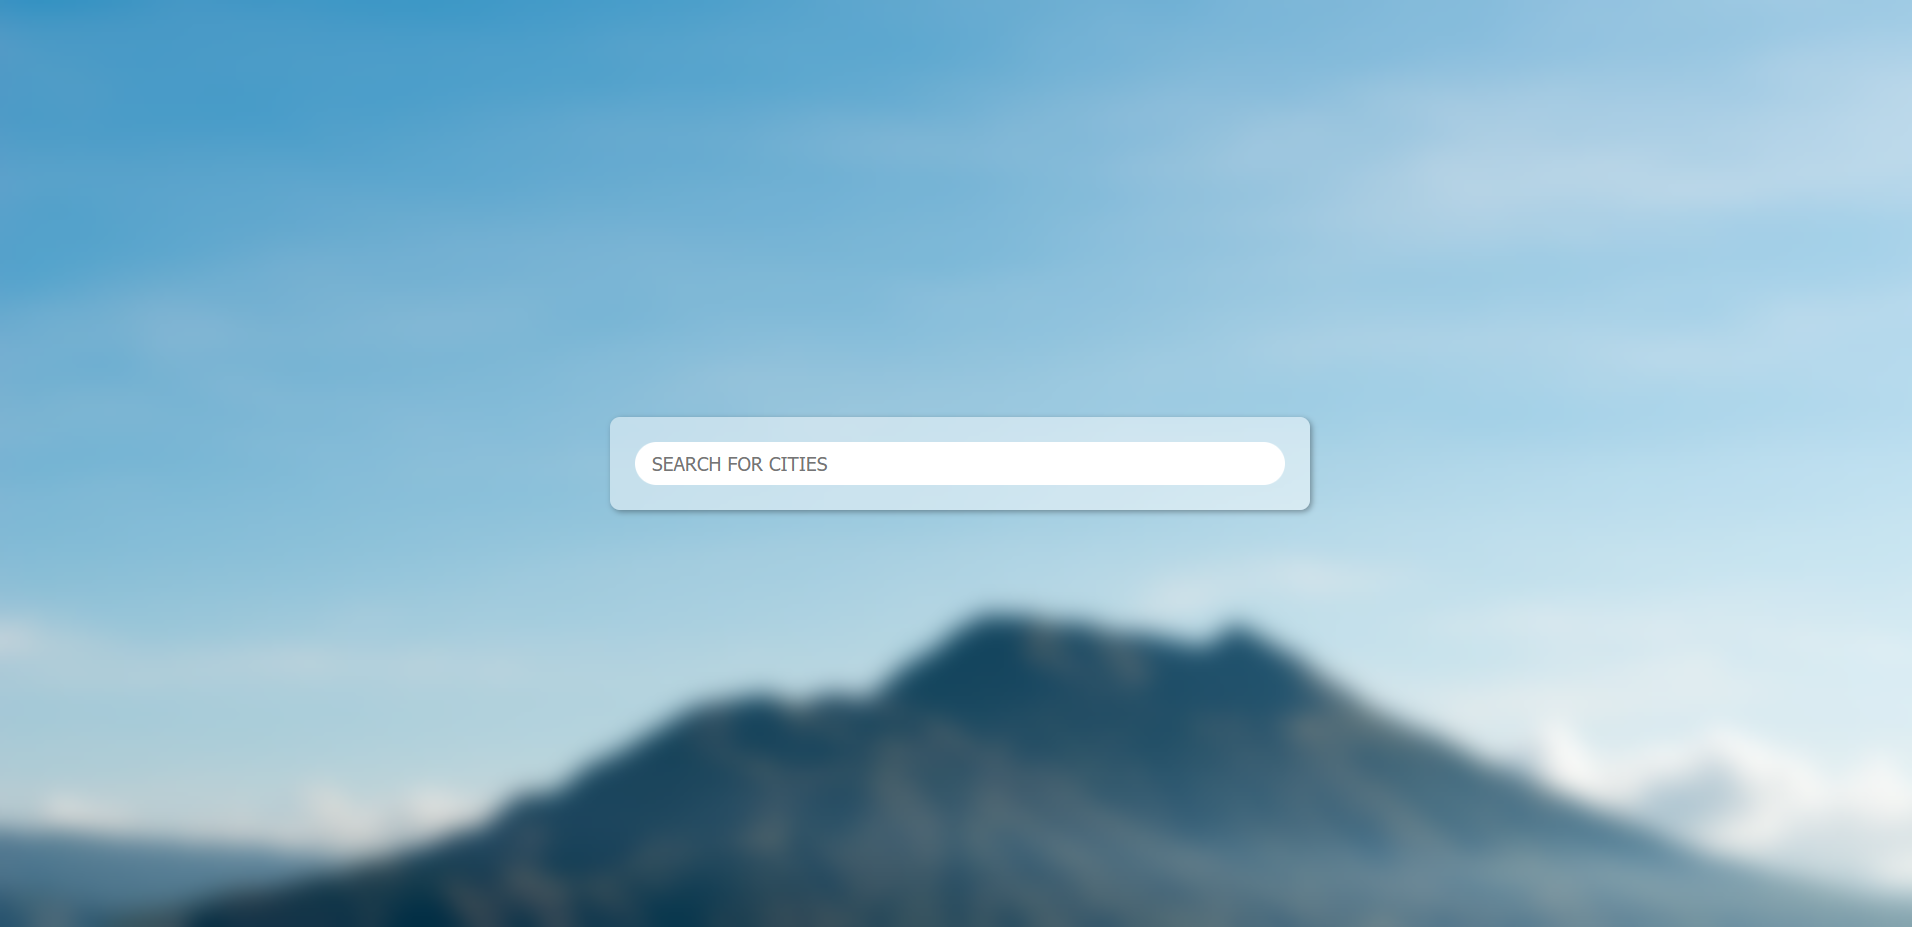
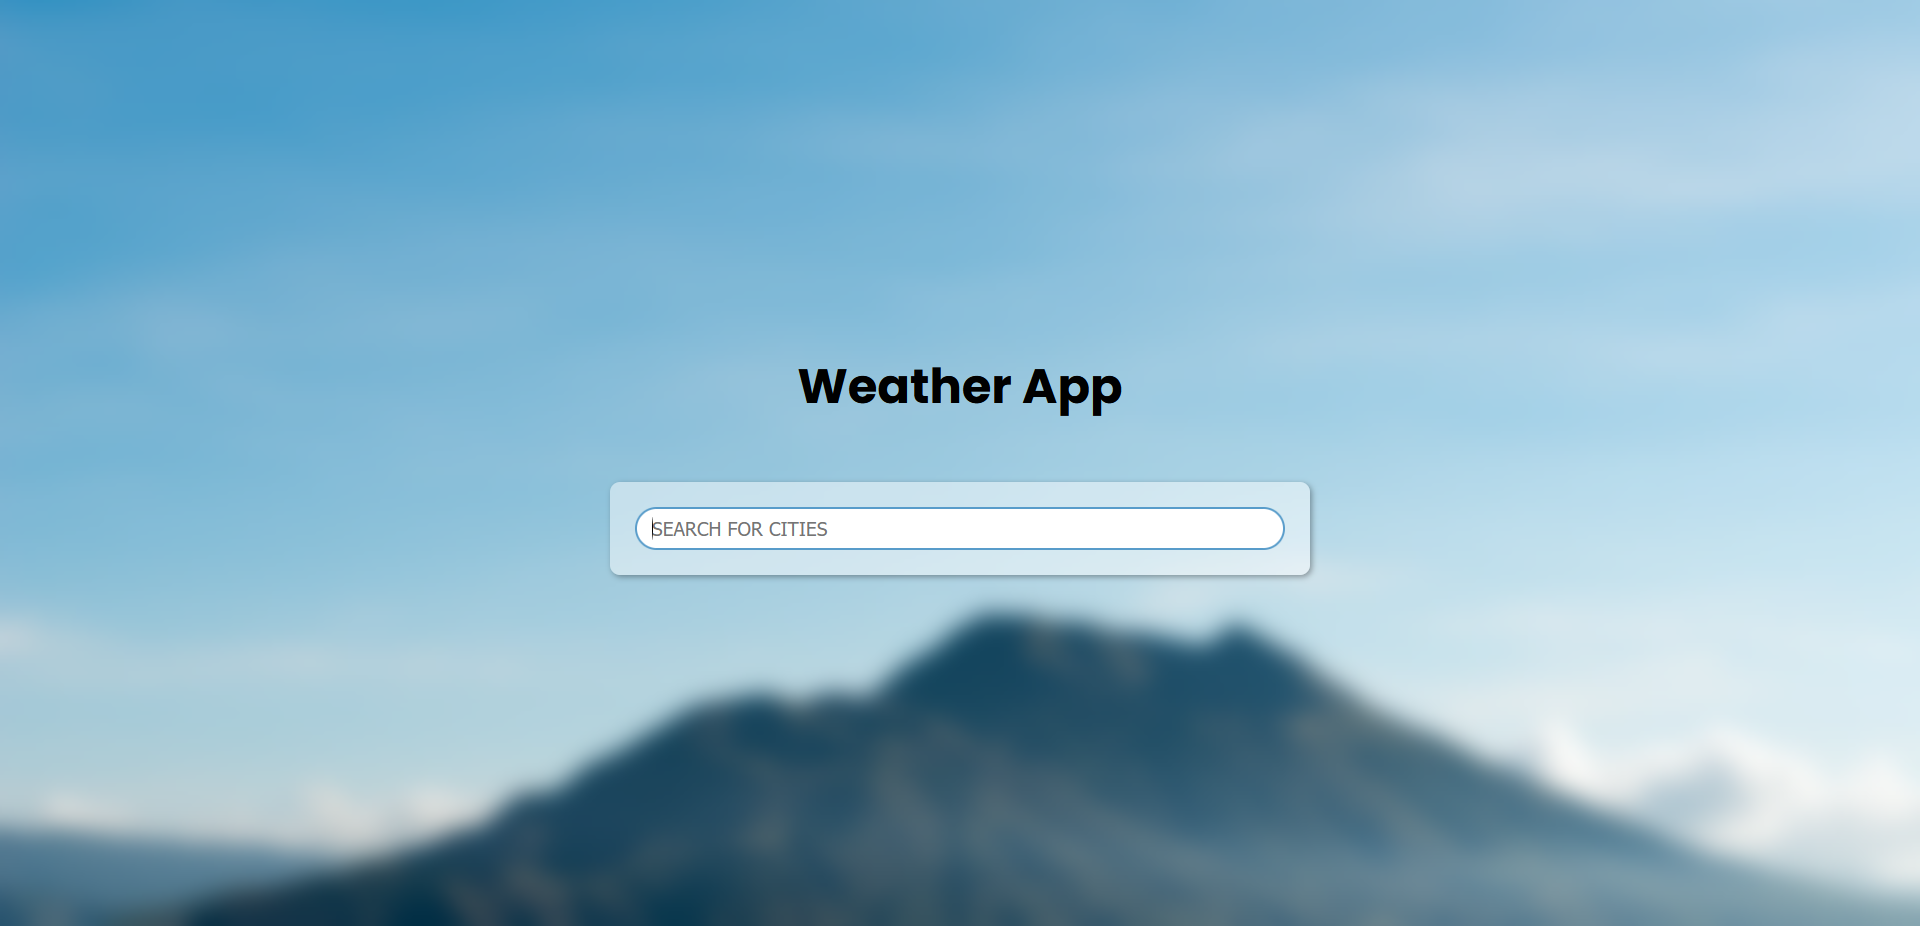
Supporting other screens.

Changed region(s): [[0.3086, 0.3931, 0.7097, 0.635]]

diff --git a/assets/css/main.css b/assets/css/main.css
@@ -8,6 +8,7 @@ body {
   display: flex;
   align-items: center;
   justify-content: center;
+  flex-direction: column;
   min-height: 100vh;
   background-image: url("../img/bg.jpg");
   background-position: center;
@@ -17,6 +18,17 @@ body {
   width: 100%;
   backdrop-filter: blur(12px);
 }
+
+.container {
+  padding: 0 15px;
+}
+
+h1 {
+  font-size: 3rem;
+  margin-bottom: 60px;
+  color: rgb(0, 0, 0);
+}
+
 .weather-container {
   display: flex;
   flex-direction: column;
@@ -85,4 +97,15 @@ body {
   font-weight: bold;
   font-size: 1.3rem;
   color: hsla(0, 0%, 0%, 0.75);
+}
+
+@media (max-width: 428px) {
+  .weather-container {
+    min-width: auto;
+  }
+}
+@media (min-width: 429px) and (max-width: 705px) {
+  .weather-container {
+    min-width: 600px;
+  }
 }

diff --git a/assets/js/main.js b/assets/js/main.js
@@ -24,12 +24,16 @@ weatherForm.addEventListener("submit", async (e) => {
       errorDisplay.textContent = "";
       displayError("");
     } catch (error) {
-      // weatherDisplay.innerHTML = errorDisplay.textContent = error
       console.error(error);
       displayError(error);
     }
   } else {
     displayError("Please Enter a Valid City!");
+    cityDisplay.textContent = "";
+    tempDisplay.textContent = "";
+    humidityDisplay.textContent = "";
+    discDisplay.textContent = "";
+    weatherEmoji.textContent = "";
   }
 });
 

diff --git a/index.html b/index.html
@@ -23,6 +23,7 @@
     />
   </head>
   <body>
+    <h1>Weather App</h1>
     <div class="weather-container">
       <div class="form">
         <form id="weatherForm">
@@ -36,7 +37,7 @@
         </form>
       </div>
       <div class="weather-display" id="weatherDisplay">
-        <h1 class="cityDisplay" id="cityDisplay"></h1>
+        <h2 class="cityDisplay" id="cityDisplay"></h2>
         <div class="tempDisplay" id="tempDisplay"></div>
         <div class="weatherEmoji" id="weatherEmoji"></div>
         <div class="flex">
